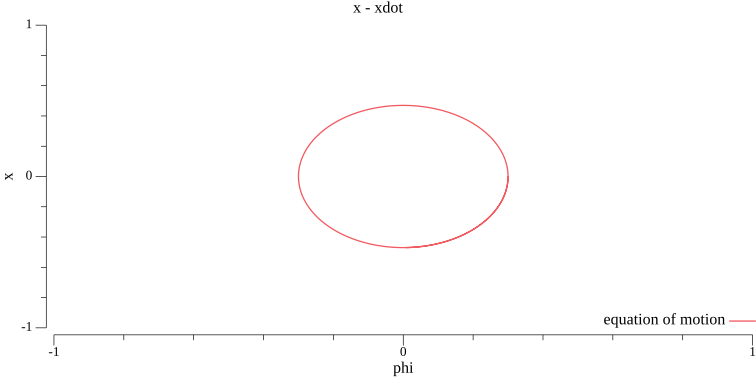
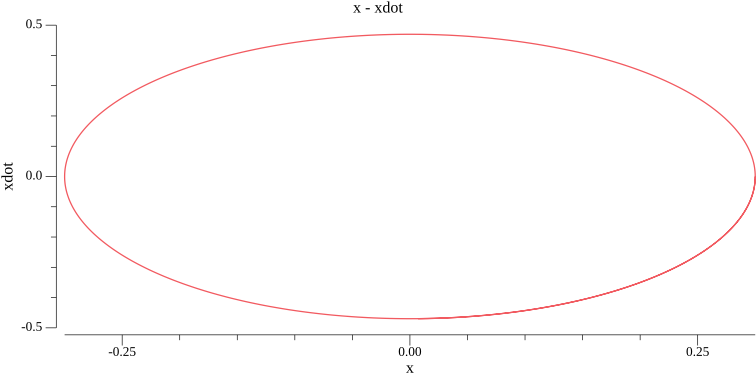
Updated eom.png, line.go, main.go and pd.png.

diff --git a/line.go b/line.go
@@ -16,7 +16,7 @@ func CreateLineplotPlot(points plotter.XYs, title string, labels labels, bounds 
 	p.Y.Label.Text = labels.y
 	p.X.Min, p.X.Max, p.Y.Min, p.Y.Max = bounds.xmin, bounds.xmax, bounds.ymin, bounds.ymax
 
-	err := plotutil.AddLines(p, "equation of motion", points)
+	err := plotutil.AddLines(p, "", points)
 	if err != nil {
 		log.Fatalf("could not create lineplot: %+v", err)
 	}

diff --git a/main.go b/main.go
@@ -40,14 +40,14 @@ func main() {
 		})
 	}
 	b2 := bounds{
-		xmin: -1,
-		xmax: 1,
-		ymin: -1,
-		ymax: 1,
+		xmin: -0.3,
+		xmax: 0.3,
+		ymin: -0.5,
+		ymax: 0.5,
 	}
 	l2 := labels{
-		x: "phi",
-		y: "x",
+		x: "x",
+		y: "xdot",
 	}
 	CreateLineplotPlot(points2, "x - xdot", l2, b2, "pd.png")
 }
